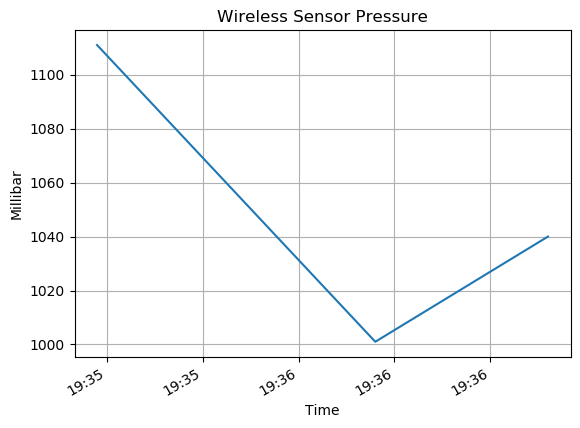
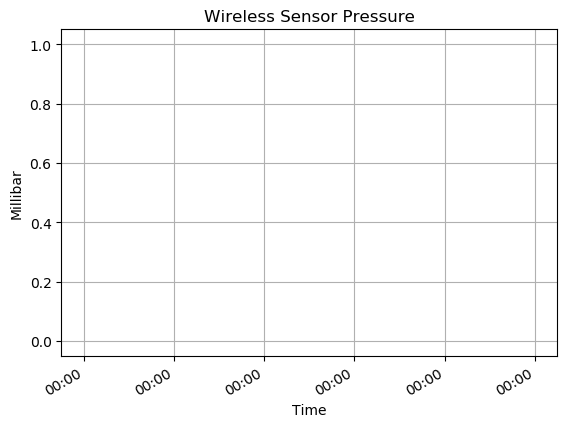
adjust files based on real-world test on raspberry pi hardware and environment. small bugfix on database utilites to return something other than an empty array

diff --git a/app/modules/Database/DBUtils.py b/app/modules/Database/DBUtils.py
@@ -1,6 +1,7 @@
 import sqlite3
 import re #regex
 
+
 # since db can be dangerous, only allow a-z, 0-9 and _ in table names
 RE_STRING='[^A-Za-z0-9_]+'
 
@@ -52,8 +53,15 @@ def read_sensor(con,table,StartTime,EndTime):
 	cur = con.cursor()
 	sql = "Select datetime(TTime,'localtime'),Temperature,Humidity,Pressure from " + SafeTable + " where datetime(TTime,'localtime') between ? and ?;"
 	cur.execute(sql,(StartTime, EndTime))
+
+	# set output to all the items returned
+	output = cur.fetchall()
+
+	# if the output is empty, return something meaningful
+	if output == []:
+		output = [("2020-01-01 00:00:00",None,None,None)]
 	
-	return cur.fetchall()
+	return output
 
 def read_weather(con,table,StartTime,EndTime):
 	# sanitise table name in case of SQL injection	
@@ -64,6 +72,13 @@ def read_weather(con,table,StartTime,EndTime):
 	sql = "Select datetime(TTime,'localtime'),Temperature from " + SafeTable + " where datetime(TTime,'localtime') between ? and ?;"
 	cur.execute(sql,(StartTime,EndTime))
 
-	return cur.fetchall()
+	# set output to all the items returned
+	output = cur.fetchall()
+
+	# if the output is empty, return something meaningful
+	if output == []:
+		output = [("2020-01-01 00:00:00",None)]
+	
+	return output
 
 

diff --git a/app/Plotting.py b/app/Plotting.py
@@ -89,6 +89,9 @@ while var > 0:
 	print("convert output to manageable variables")	
 	# print(list(zip(*WiredOutput))[0])
 	# transpose rows to columns so that we can easily take all dates, all humidity's and all pressures from output from database
+
+	print("wiredoutput",WiredOutput)
+	print("wirelessoutput",WirelessOutput)
 	SensorDate=[list(zip(*WiredOutput))[0],list(zip(*WirelessOutput))[0]]
 	# print(SensorDate)
 

diff --git a/README.md b/README.md
@@ -53,4 +53,15 @@ install screen
 pip3 install matplotlib
 pip3 install adafruit-circuitpython-bme280
 pip3 install bluepy
-	add /home/pi/.local/bin to $PATH in ~/bash_profile
+pip3 install pyowm
+add /home/pi/.local/bin to $PATH in ~/.bash_profile
+add PYTHONPATH=${PYTHONPATH}:/home/pi/Station to ~/.bash_profile
+install supervisor
+install config files into supervisor config directory
+sudo supervisorctrl reread
+sudo supervisorctrl update
+
+TODO 
+resolve path issues with my username and pi's username hardcoded into config files 
+fix issue with station vs Station when cloned from github
+safeconfigparser is to be depricated
